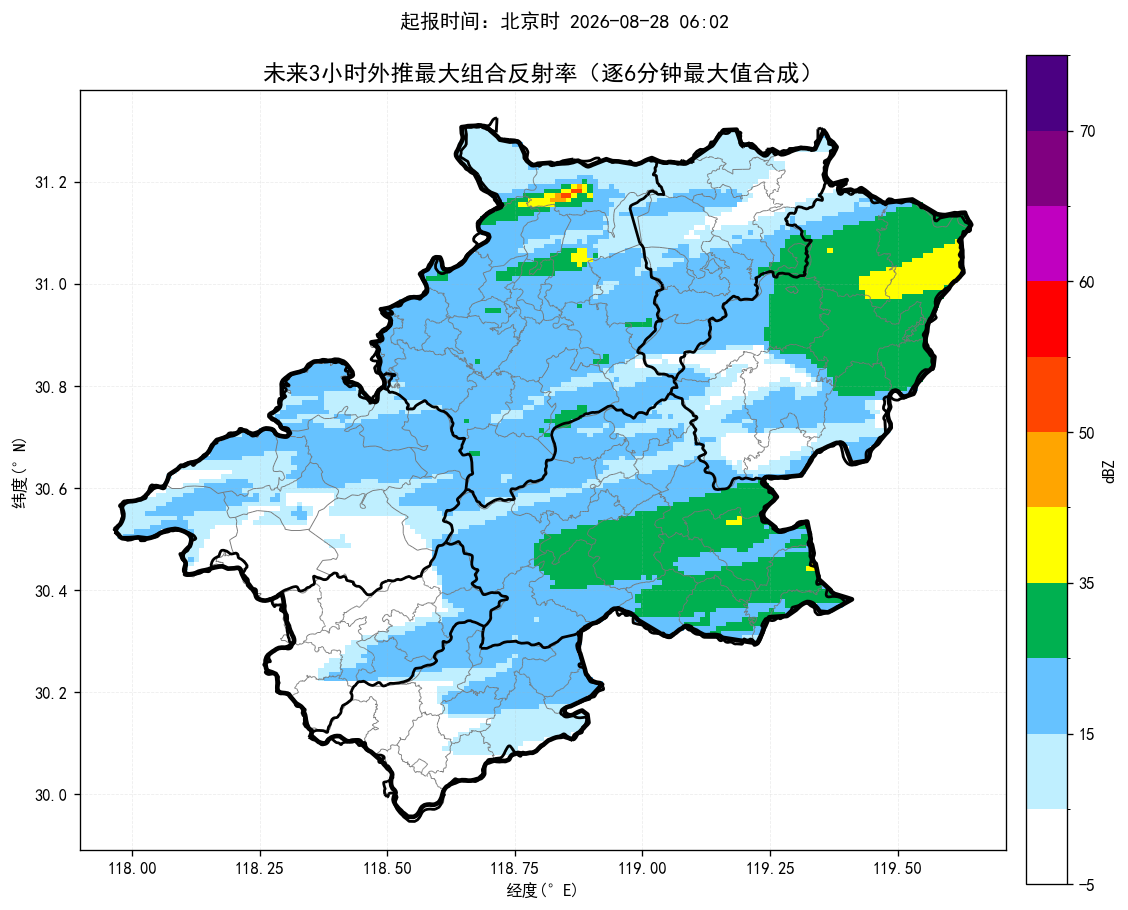
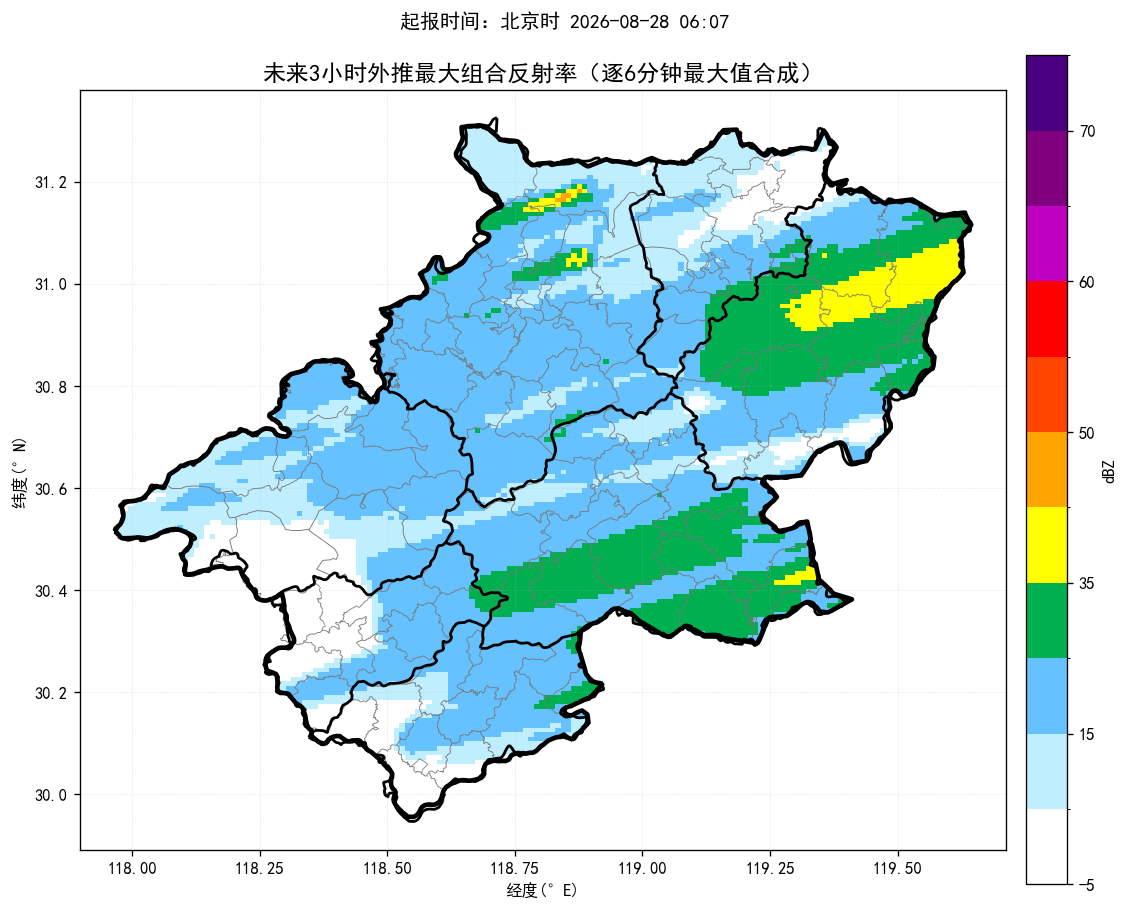
update nowcast products

Changed region(s): [[0.1241, 0.1846, 0.8378, 0.8615], [0.2482, 0.4, 0.3723, 0.4923]]

diff --git a/index.html b/index.html
@@ -14,14 +14,14 @@ img.product{display:block;width:100%;height:auto;margin:10px auto 26px;border:1p
 .footer{font-size:13px;color:#777;text-align:center;margin-top:30px}
 @media(max-width:700px){.sheet{margin:0;padding:18px 15px}.alert-title{font-size:22px}.county-line{font-size:17px}.prob{font-size:18px}}
 </style></head><body><main class="sheet">
-<div class="time">起报时间：北京时 2026-08-28 06:02</div>
+<div class="time">起报时间：北京时 2026-08-28 06:07</div>
 <div class="alert-title">未来一小时降水量超过 20 毫米的乡镇：</div><div class="county-line">无</div>
 <div class="alert-title">未来三小时降水量超过 50 毫米的乡镇：</div><div class="county-line">无</div>
 <div class="alert-title">未来三小时雷暴大风（组合反射率 > 55 dBZ）的乡镇：</div><div class="county-line">无</div>
-<div class="prob">最大降水量概率预估：宣城市范围内未来三小时降水偏小，最大预报约19.0毫米，暂不进行50/80/100毫米概率预估。</div>
-<div class="section-title">未来降水预报图：</div><img class="product auto-refresh-product" data-src="短临降水预报.png" src="短临降水预报.png?v=20260828060750" alt="未来降水预报图">
-<div class="section-title">未来三小时组合反射率图：</div><img class="product auto-refresh-product" data-src="未来3小时组合反射率.png" src="未来3小时组合反射率.png?v=20260828060750" alt="未来三小时组合反射率图">
-<div class="section-title">未来三小时雷暴大风图：</div><img class="product auto-refresh-product" data-src="未来3小时雷暴大风.png" src="未来3小时雷暴大风.png?v=20260828060750" alt="未来三小时雷暴大风图">
+<div class="prob">最大降水量概率预估：宣城市范围内未来三小时降水偏小，最大预报约11.1毫米，暂不进行50/80/100毫米概率预估。</div>
+<div class="section-title">未来降水预报图：</div><img class="product auto-refresh-product" data-src="短临降水预报.png" src="短临降水预报.png?v=20260828061331" alt="未来降水预报图">
+<div class="section-title">未来三小时组合反射率图：</div><img class="product auto-refresh-product" data-src="未来3小时组合反射率.png" src="未来3小时组合反射率.png?v=20260828061331" alt="未来三小时组合反射率图">
+<div class="section-title">未来三小时雷暴大风图：</div><img class="product auto-refresh-product" data-src="未来3小时雷暴大风.png" src="未来3小时雷暴大风.png?v=20260828061331" alt="未来三小时雷暴大风图">
 <div class="footer">三张产品图每 60 秒自动刷新一次；每次请求自动附加新的URL参数以绕过缓存。</div>
 <script>
 (function() {
